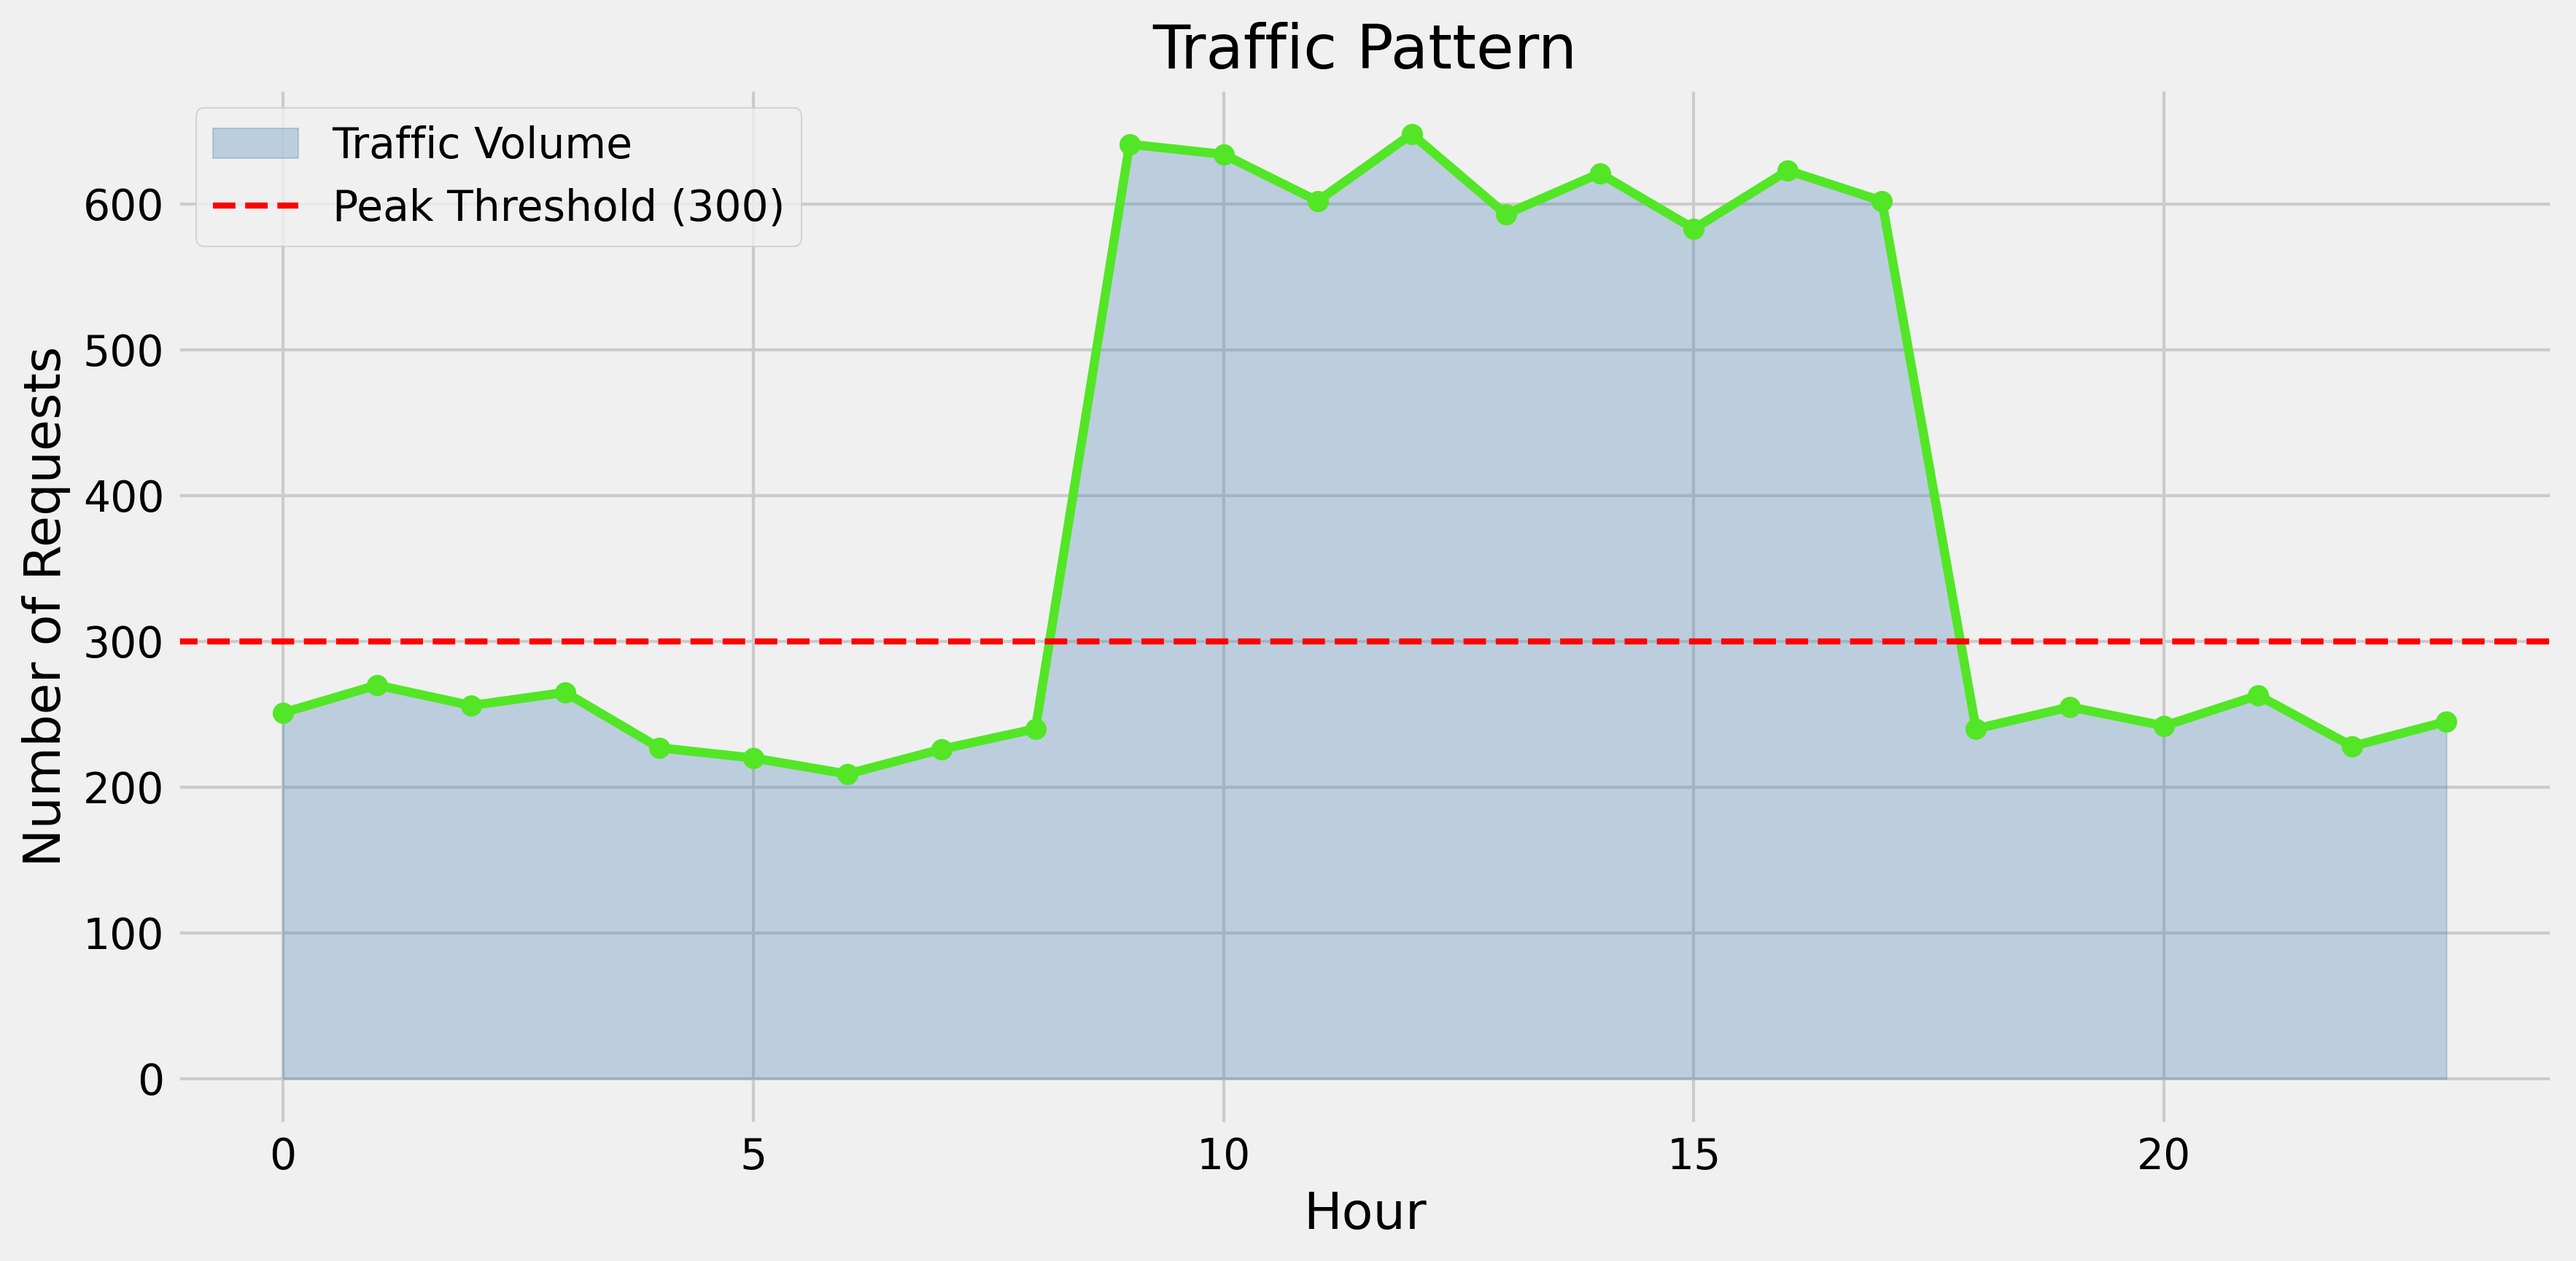
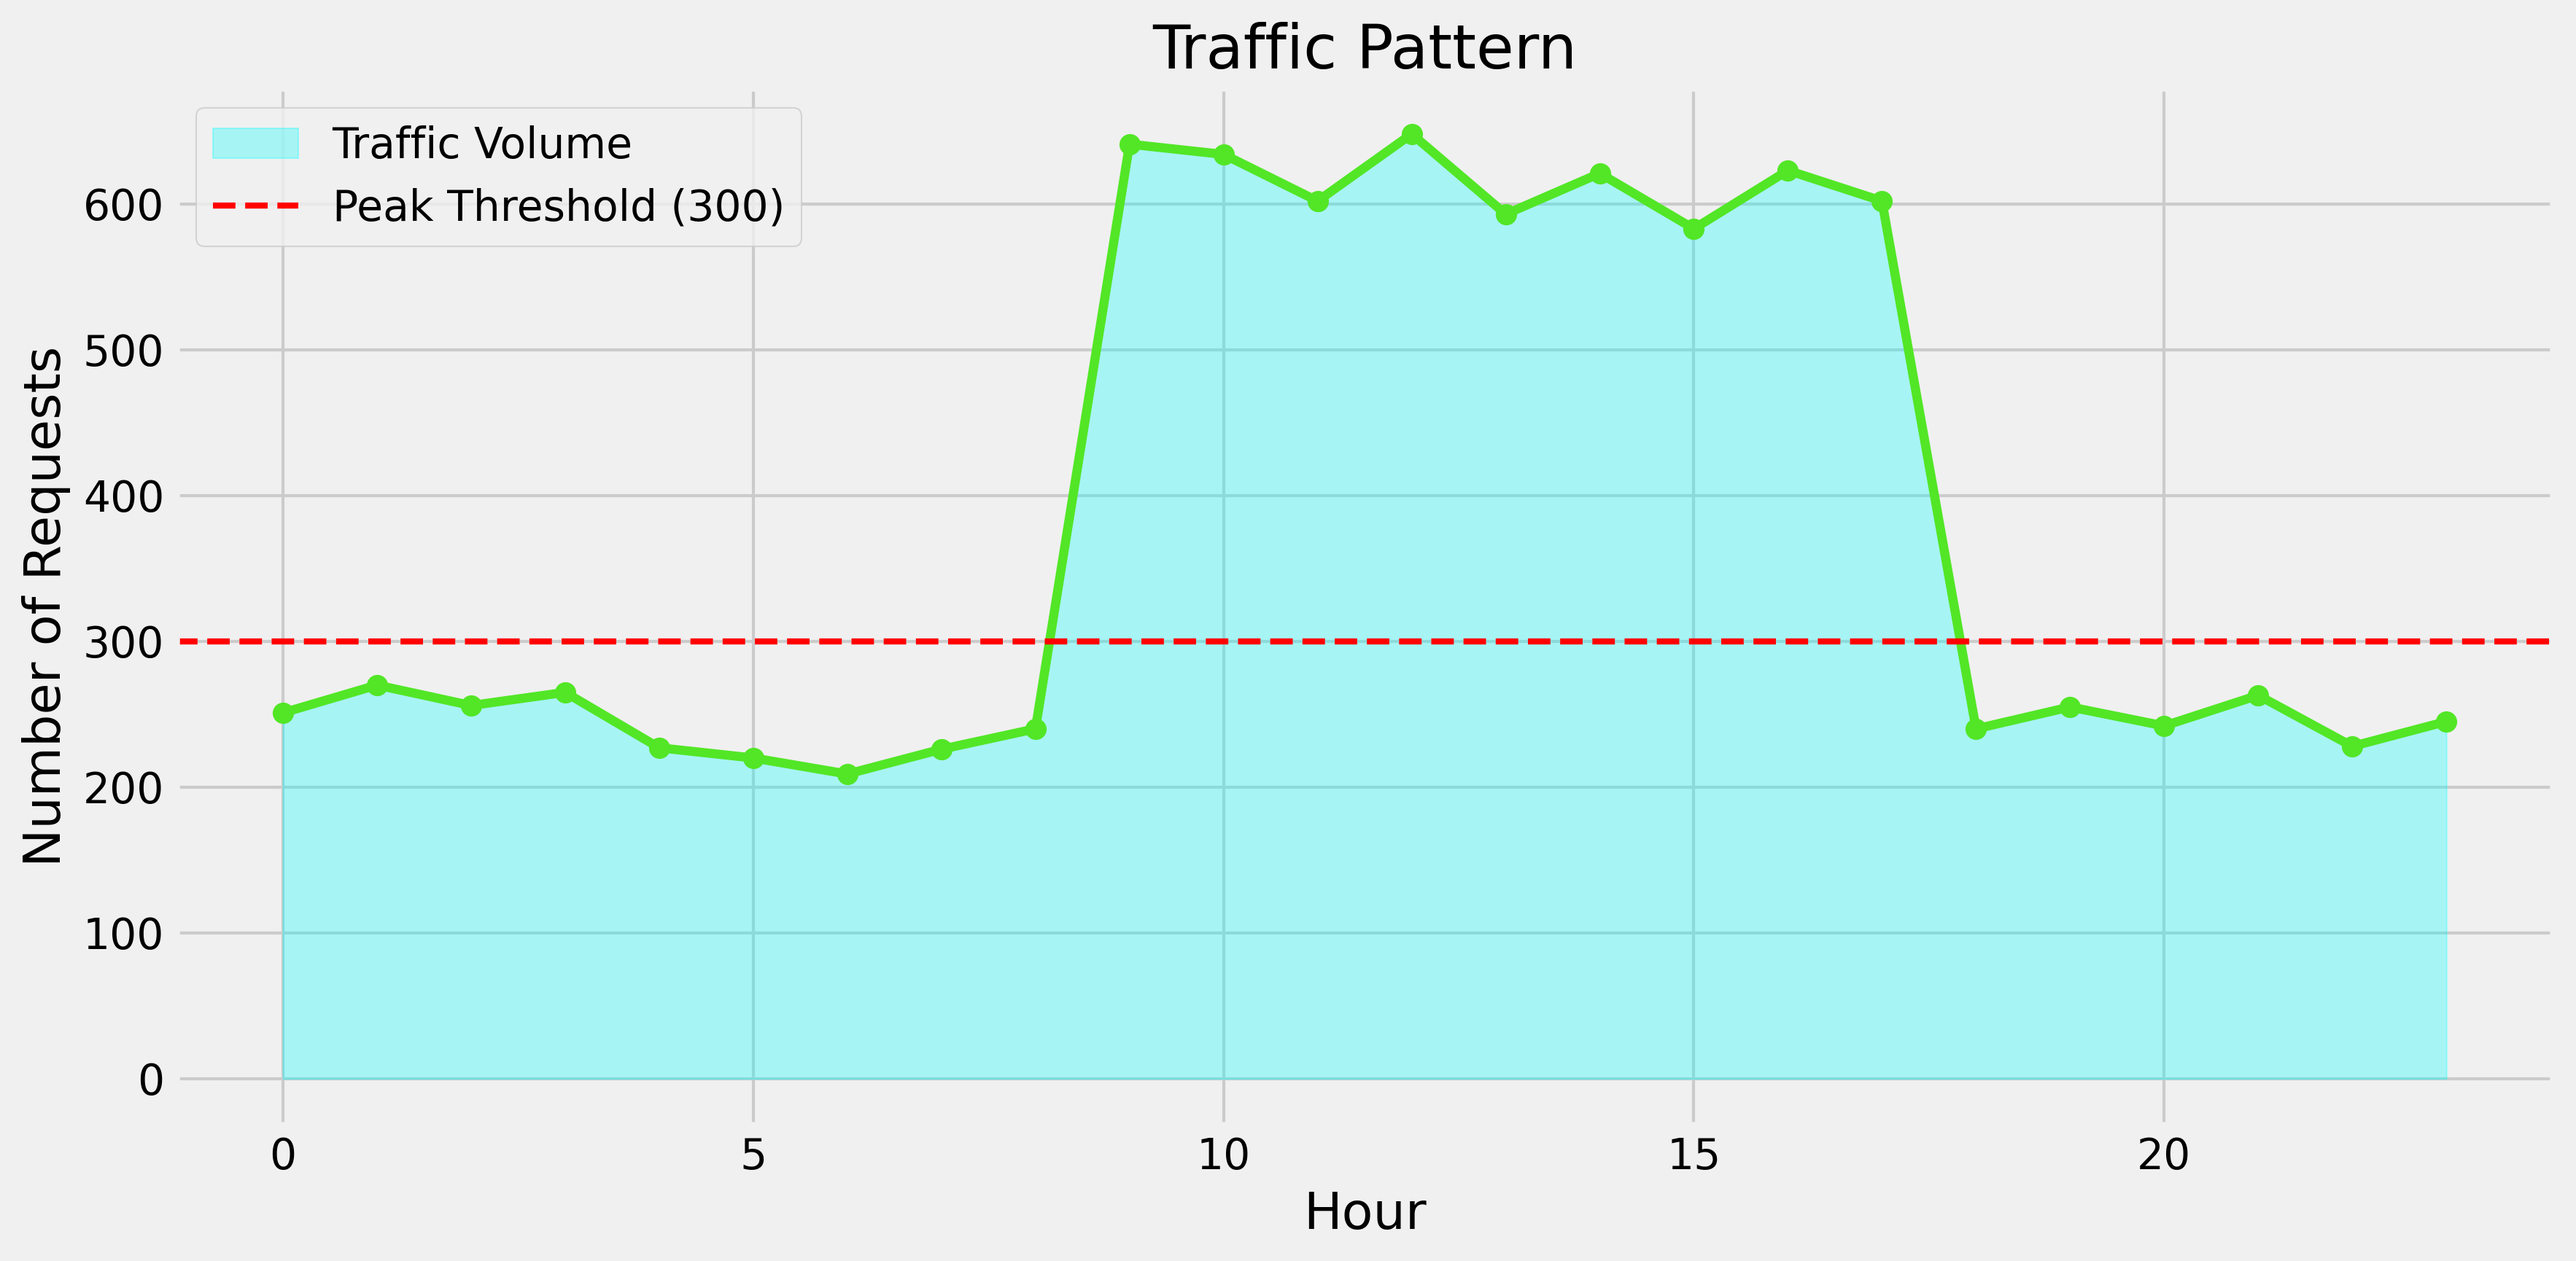
Created a function to save charts in visualize.py

diff --git a/Processing/visualize.py b/Processing/visualize.py
@@ -3,6 +3,11 @@ import pandas as pd
 from matplotlib import pyplot as plt
 plt.style.use('fivethirtyeight')
 
+def save_chart(filename):
+    filepath=f'Outputs/Charts/{filename}'
+    plt.savefig(filepath,dpi=300,bbox_inches='tight')
+    plt.close()
+
 #Visualizing for user_metrics
 def visualize_user_metrics(user_metrics) :
     #Making a Horizontal bar chart for the top 10 most active users
@@ -20,22 +25,20 @@ def visualize_user_metrics(user_metrics) :
     plt.tight_layout()
     #plt.show()
 
-    plt.savefig('Outputs/Charts/top_users.png',dpi=300,bbox_inches='tight')
-    plt.close()
+    save_chart('top_users.png')
     
     #Making a histogram for success rate distribution
     success_rate=user_metrics['success_rate']
     bins=[0,10,20,30,40,50,60,70,80,90,100]
 
-    plt.hist(success_rate,bins,color='green',edgecolor='black',alpha=0.75)
+    plt.hist(success_rate,bins,color='#008000',edgecolor='#000000',alpha=0.75)
     plt.title("Success Rate Distribution")
     plt.ylabel("Users")
     plt.xlabel("Success Percentage")
     plt.tight_layout()
     #plt.show()
 
-    plt.savefig('Outputs/Charts/success_rate.png',dpi=300,bbox_inches='tight')
-    plt.close()
+    save_chart('success_rate.png')
 
 #Visualizing for endpoint_metrics
 def visualize_endpoint_metrics(endpoint_metrics):
@@ -43,7 +46,7 @@ def visualize_endpoint_metrics(endpoint_metrics):
     x_axis=endpoint_metrics['avg_response_time']
     y_axis=endpoint_metrics['success_rate']
     
-    plt.scatter(x_axis,y_axis,edgecolor='black',alpha=0.75)
+    plt.scatter(x_axis,y_axis,edgecolor='#000000',alpha=0.75)
     
     plt.title('Avg Response Time V/S Success Rate')
     plt.xlabel('Avg. Response Time(ms)')
@@ -51,8 +54,7 @@ def visualize_endpoint_metrics(endpoint_metrics):
     plt.tight_layout()
     #plt.show()
     
-    plt.savefig('Outputs/Charts/avg_time_vs_success_rate.png',dpi=300,bbox_inches='tight')
-    plt.close()
+    save_chart('avg_time_vs_success_rate.png')
     
     #Making a horizontal bar graph to show the slowest endpoints
     df1=endpoint_metrics.nlargest(10,'avg_response_time')
@@ -69,8 +71,7 @@ def visualize_endpoint_metrics(endpoint_metrics):
     plt.tight_layout()
     #plt.show()
     
-    plt.savefig('Outputs/Charts/slowest_endpoints.png',dpi=300,bbox_inches='tight')
-    plt.close()
+    save_chart('slowest_endpoints.png')
     
 #Visualizing for hourly metrics
 def visualize_hourly_metrics(hourly_metrics):
@@ -81,8 +82,8 @@ def visualize_hourly_metrics(hourly_metrics):
     
     plt.plot(x_axis,y_axis,color="#52E626",linewidth='3',marker='o')
     plt.grid(True)
-    plt.fill_between(x_axis, y_axis, alpha=0.3, color='steelblue', label='Traffic Volume')
-    plt.axhline(y=300, color='red', linestyle='--',linewidth='2.0', label='Peak Threshold (300)')
+    plt.fill_between(x_axis, y_axis, alpha=0.3, color='#00FFFF', label='Traffic Volume')
+    plt.axhline(y=300, color='#FF0000', linestyle='--',linewidth='2.0', label='Peak Threshold (300)')
     plt.legend(loc='upper left')
     
     plt.title('Traffic Pattern')
@@ -91,8 +92,7 @@ def visualize_hourly_metrics(hourly_metrics):
     plt.tight_layout()
     #plt.show()
     
-    plt.savefig('Outputs/Charts/hourly_traffic_pattern.png',dpi=300,bbox_inches='tight')
-    plt.close()
+    save_chart('hourly_traffic_pattern.png')
     
     #Making a dual-axis line chart for total requests and success rate
     plt.figure(figsize=(14,6))
@@ -121,8 +121,7 @@ def visualize_hourly_metrics(hourly_metrics):
     plt.tight_layout()
     #plt.show()
     
-    plt.savefig('Outputs/Charts/tot_requests and success_rate.png',dpi=300,bbox_inches='tight')
-    plt.close()
+    save_chart('tot_requests and success_rate.png')
     
 #Visualizing for daily metrics
 def visualize_daily_metrics(daily_metrics):
@@ -133,21 +132,20 @@ def visualize_daily_metrics(daily_metrics):
     threshold=daily_metrics['error_count'].mean()
     high_errors=daily_metrics[daily_metrics['error_count']>threshold]
     
-    plt.plot(x_axis,y_axis,color='green',linewidth=1,marker='s',label='total requests')
+    plt.plot(x_axis,y_axis,color='#008000',linewidth=1,marker='s',label='total requests')
     plt.title('Daily Trend with Error Highlightation')
     plt.xlabel('Day')
     plt.ylabel('No. of Requests')
     plt.xticks(daily_metrics['day'])
     
-    plt.scatter(high_errors['day'],high_errors['total_requests'],color='red',s=150,edgecolors='black',alpha=0.75,zorder=5,label='High Error Day')
+    plt.scatter(high_errors['day'],high_errors['total_requests'],color='#FF0000',s=150,edgecolors='#000000',alpha=0.75,zorder=5,label='High Error Day')
     plt.legend(loc='upper right')
     plt.grid(True,alpha=0.5)
     
     plt.tight_layout()
     #plt.show()
     
-    plt.savefig('Outputs/Charts/Daily Trend with Errors.png',dpi=300,bbox_inches='tight')
-    plt.close()
+    save_chart('Daily Trend with Errors.png')
     
 #Visualizing for method metrics
 def visualize_method_metrics(method_metrics):
@@ -160,8 +158,7 @@ def visualize_method_metrics(method_metrics):
     plt.title('Method Distribution')
     #plt.show()
     
-    plt.savefig('Outputs/Charts/Method Distribution.png',dpi=300,bbox_inches='tight')
-    plt.close()
+    save_chart('Method Distribution.png')
     
     #Making a grouped bar chart to show success vs error breakdown
     methods=method_metrics['method']
@@ -170,8 +167,8 @@ def visualize_method_metrics(method_metrics):
     x_indexes=np.arange(len(methods))
     width=0.2
     
-    plt.bar(x_indexes-0.2,errors,width=width,color='red',label='Errors')
-    plt.bar(x_indexes+0.2,success,width=width,color='green',label='Success')
+    plt.bar(x_indexes-0.2,errors,width=width,color='#FF0000',label='Errors')
+    plt.bar(x_indexes+0.2,success,width=width,color='#008000',label='Success')
     
     plt.legend()
     plt.grid(True,alpha=0.5)
@@ -182,8 +179,7 @@ def visualize_method_metrics(method_metrics):
     plt.tight_layout()
     #plt.show()
     
-    plt.savefig('Outputs/Charts/Method_Success_vs_Error_Count.png',dpi=300,bbox_inches='tight')
-    plt.close()
+    save_chart('Method_Success_vs_Error_Count.png')
     
 
     
